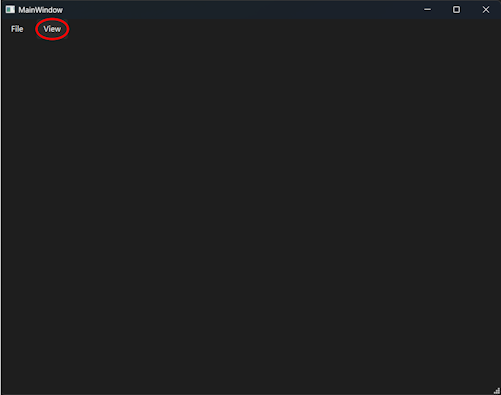
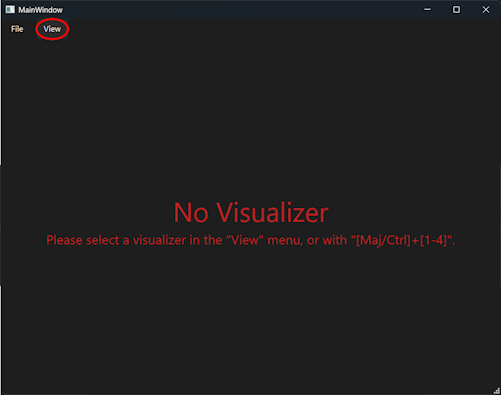
Added a text when no matrice is imported or when no visualizer is selected. Updated the README.md to match these changes

Changed region(s): [[0.0898, 0.4861, 0.8982, 0.638], [0.0, 0.4253, 0.0299, 0.7291]]

diff --git a/src/mainwindow.cpp b/src/mainwindow.cpp
@@ -13,8 +13,14 @@ MainWindow::MainWindow(QWidget* parent):
     currentMatrice(nullptr)
 {
     ui->setupUi(this);
+
+    // Set window title and icon
     setWindowTitle("Routing Algorithms - Visualizer");
     setWindowIcon(QIcon(":/icons/app_icon.png"));
+
+    // Set placeholder widget
+    displayedWidget = new ErrorWidget("Please import a matrice file with \"File >> Import...\", or with \"Ctrl+O\".", "No Matrice", this);
+    setCentralWidget(displayedWidget);
 }
 
 MainWindow::~MainWindow()
@@ -47,6 +53,11 @@ void MainWindow::on_actionImport_triggered()
     else if (displayId == 102) on_actionPrimMatriceView_triggered();
     else if (displayId == 103) on_actionFloydWarshallMatriceView_triggered();
     else if (displayId == 104) on_actionClustersMatriceView_triggered();
+    else {
+        // Set placeholder widget
+        displayedWidget = new ErrorWidget("Please select a visualizer in the \"View\" menu, or with \"[Maj/Ctrl]+[1-4]\".", "No Visualizer", this);
+        setCentralWidget(displayedWidget);
+    }
 }
 
 
@@ -88,7 +99,7 @@ void MainWindow::on_actionBasicGraphView_triggered()
     
     // If there is an error, display the error widget
     } catch (const std::exception& e) {
-        displayedWidget = new ErrorWidget(e.what(), this);
+        displayedWidget = new ErrorWidget(e.what(), "Invalid Graph", this);
         setCentralWidget(displayedWidget);
     }
 }
@@ -110,7 +121,7 @@ void MainWindow::on_actionPrimGraphView_triggered()
     
     // If there is an error, display the error widget
     } catch (const std::exception& e) {
-        displayedWidget = new ErrorWidget(e.what(), this);
+        displayedWidget = new ErrorWidget(e.what(), "Invalid Graph", this);
         setCentralWidget(displayedWidget);
     }
 }
@@ -132,7 +143,7 @@ void MainWindow::on_actionClustersGraphView_triggered()
     
     // If there is an error, display the error widget
     } catch (const std::exception& e) {
-        displayedWidget = new ErrorWidget(e.what(), this);
+        displayedWidget = new ErrorWidget(e.what(), "Invalid Graph", this);
         setCentralWidget(displayedWidget);
     }
 }
@@ -154,7 +165,7 @@ void MainWindow::on_actionBasicMatriceView_triggered()
     
     // If there is an error, display the error widget
     } catch (const std::exception& e) {
-        displayedWidget = new ErrorWidget(e.what(), this);
+        displayedWidget = new ErrorWidget(e.what(), "Invalid Graph", this);
         setCentralWidget(displayedWidget);
     }
 }
@@ -176,7 +187,7 @@ void MainWindow::on_actionPrimMatriceView_triggered()
     
     // If there is an error, display the error widget
     } catch (const std::exception& e) {
-        displayedWidget = new ErrorWidget(e.what(), this);
+        displayedWidget = new ErrorWidget(e.what(), "Invalid Graph", this);
         setCentralWidget(displayedWidget);
     }
 }
@@ -198,7 +209,7 @@ void MainWindow::on_actionFloydWarshallMatriceView_triggered()
     
     // If there is an error, display the error widget
     } catch (const std::exception& e) {
-        displayedWidget = new ErrorWidget(e.what(), this);
+        displayedWidget = new ErrorWidget(e.what(), "Invalid Graph", this);
         setCentralWidget(displayedWidget);
     }
 }
@@ -220,7 +231,7 @@ void MainWindow::on_actionClustersMatriceView_triggered()
     
     // If there is an error, display the error widget
     } catch (const std::exception& e) {
-        displayedWidget = new ErrorWidget(e.what(), this);
+        displayedWidget = new ErrorWidget(e.what(), "Invalid Graph", this);
         setCentralWidget(displayedWidget);
     }
 }

diff --git a/src/errorwidget.cpp b/src/errorwidget.cpp
@@ -1,8 +1,9 @@
 #include "errorwidget.h"
 
-ErrorWidget::ErrorWidget(const QString& message, QWidget* parent):
+ErrorWidget::ErrorWidget(const QString& message, const QString& title, QWidget* parent):
     QWidget{parent},
-    errorMessage{message}
+    errorMessage{message},
+    errorTitle{title}
 {}
 
 void ErrorWidget::paintEvent(QPaintEvent* event)
@@ -18,7 +19,7 @@ void ErrorWidget::paintEvent(QPaintEvent* event)
     font.setPointSize(TITLE_FONT_SIZE);
     painter.setFont(font);
     QRect rect = this->rect();
-    painter.drawText(rect, Qt::AlignCenter, "Invalid Graph");
+    painter.drawText(rect, Qt::AlignCenter, errorTitle);
 
     // Draw the error message in smaller font below the title
     font.setPointSize(SUBTITLE_FONT_SIZE);

diff --git a/src/errorwidget.h b/src/errorwidget.h
@@ -18,9 +18,10 @@ public:
     /**
      * @brief Constructs an ErrorWidget with the given error message.
      * @param message The error message to display.
+     * @param title The title of the error message (default is "Error").
      * @param parent The parent widget (default is nullptr).
      */
-    ErrorWidget(const QString& message, QWidget* parent = nullptr);
+    ErrorWidget(const QString& message, const QString& title = "Error", QWidget* parent = nullptr);
 
 protected:
     /**
@@ -34,6 +35,11 @@ private:
      * @brief The error message to display.
      */
     QString errorMessage;
+
+    /**
+     * @brief The title of the error message.
+     */
+    QString errorTitle;
 };
 
 #endif // ERRORWIDGET_H
